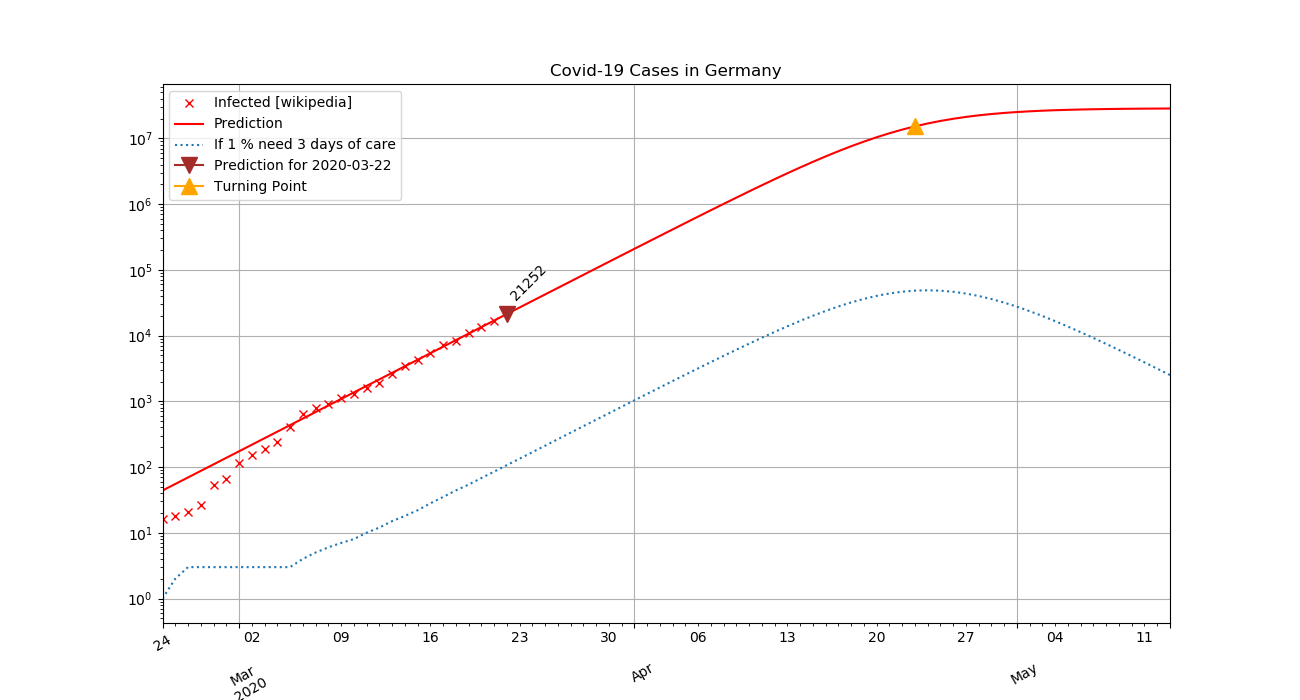
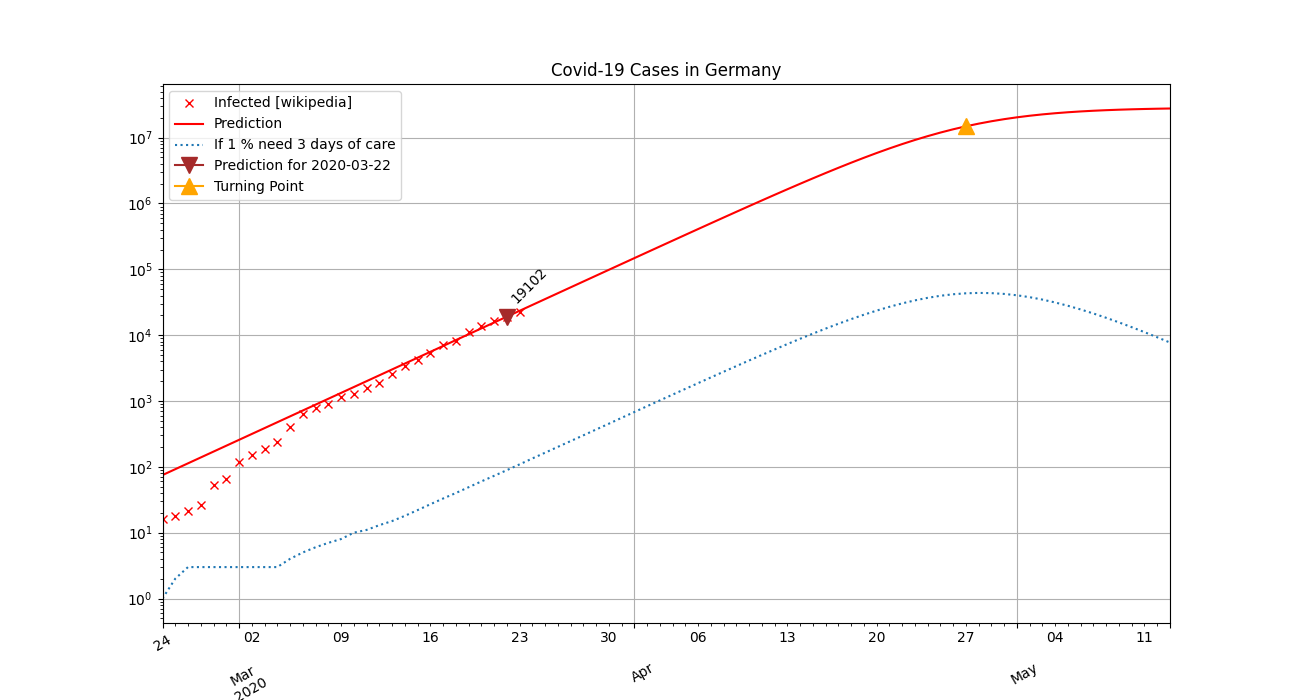
Update 23.03.2020 again

diff --git a/index.html b/index.html
@@ -17,11 +17,6 @@ curve in the near future.</p>
 I do not do this to stress you, but to <em>increase the understanding</em> for the drastic measures taken now 
 by the German goverment.
 
-<h3>Update 22<sup>nd</sup> of March 2020</h3>
-
-The last days showed, that the logistic function failed to predict the next day and the estimate was always to hight.
-I personally see this as good news, because (I hope) it shows that the restrictive measures an effect now.
-
 <h2>Disclaimer</h2>
 
 <p>The numbers are from a wikipedia article <a href="https://de.wikipedia.org/wiki/COVID-19-Pandemie_in_Deutschland">
@@ -51,7 +46,7 @@ not from my offline csv file.</li>
 <li>Is there a source for the amount of people in intensive care? 1% and 3 days is just a guess.</li>
 </ul>
 
-<img width=90% height=auto src="200324_corona.png" alt="Logistic curve of corona virus progression">
+<img width=90% height=auto src="200322_corona.png" alt="Logistic curve of corona virus progression">
 
 <blockquote>
 <p><em>Remember:</em> All models are wrong.

diff --git a/coro.py b/coro.py
@@ -38,7 +38,6 @@ def _get_data():
 
 
 def _get_predictions(data, predict_date='2020-03-20', N=70):
-    inc_time = 10  # 10 days of incubation time, so 10 days until respiratory treatment might be necessary
     d = op.curve_fit(_logistic_function, data.index.factorize()[0], data['Infected'], p0=[0.5, 30])[0]
     N = (0, N)
     XX = np.array(range(N[0], N[1]))
@@ -46,8 +45,7 @@ def _get_predictions(data, predict_date='2020-03-20', N=70):
     f = _logistic_function(XX, d[0], d[1])
     pred = pd.DataFrame(data={'Prediction': f},
                         index=pd.date_range(start=data.index[0], periods=N[1]-N[0], freq='d'))
-    diff_prediction = np.diff(pred['Prediction'])
-    new_infected_prediction  = np.hstack([[0] * (inc_time+1),  diff_prediction[:-inc_time]]) # shift array with inc_time --> eg. 10 days after infection
+    new_infected_prediction = np.hstack([pred['Prediction'][0], np.diff(pred['Prediction'])])
     for prediction in PREDICTIONS:
         prediction_key = prediction['key']
         pred[prediction_key] = np.ceil(new_infected_prediction * prediction['percentage']/100)
@@ -71,15 +69,14 @@ def get_plot(predict_date, safepath):
 
     _, ax = plt.subplots(figsize=(13,7))
     data['Infected'].plot(ax=ax, marker='x', linestyle='', label='Infected [wikipedia]', color='red')
-    pred['Prediction'].plot(ax=ax, label='Prediction', color='red', linestyle='--',
-                            linewidth=1)
+    pred['Prediction'].plot(ax=ax, label='Prediction', color='red')
     for prediction in PREDICTIONS:
         if prediction['plot']:
             prediction_key = prediction['key']
             pred[prediction_key].plot(label=prediction_key, linestyle=':')
 
     PREDICTION.plot(ax=ax, marker='v', color='brown', markersize=12)
-#    turning_point.plot(ax=ax, marker='^', color='orange', markersize=12)
+    turning_point.plot(ax=ax, marker='^', color='orange', markersize=12)
     ax.annotate('%d' %(PREDICTION.iloc[0,0]), (PREDICTION.index[0], PREDICTION.iloc[0,0]),
                 textcoords="offset points", rotation=45,
                 xytext=(1, 10))
@@ -110,11 +107,6 @@ Germany, so that people understand, why this drastic measures are necessary. I h
 curve in the near future.</p>
 I do not do this to stress you, but to <em>increase the understanding</em> for the drastic measures taken now 
 by the German goverment.
-
-<h3>Update 22<sup>nd</sup> of March 2020</h3>
-
-The last days showed, that the logistic function failed to predict the next day and the estimate was always to hight.
-I personally see this as good news, because (I hope) it shows that the restrictive measures an effect now.
 
 <h2>Disclaimer</h2>
 
@@ -174,7 +166,7 @@ Output ist html and png.</p>
     f.close()
     return string
 
-date = datetime(2020, 3, 24)
+date = datetime(2020, 3, 22)
 predict_date = date.strftime('%Y-%m-%d')
 safe_path = date.strftime('%y%m%d_corona.png')
 get_plot(predict_date=predict_date, safepath=safe_path)
